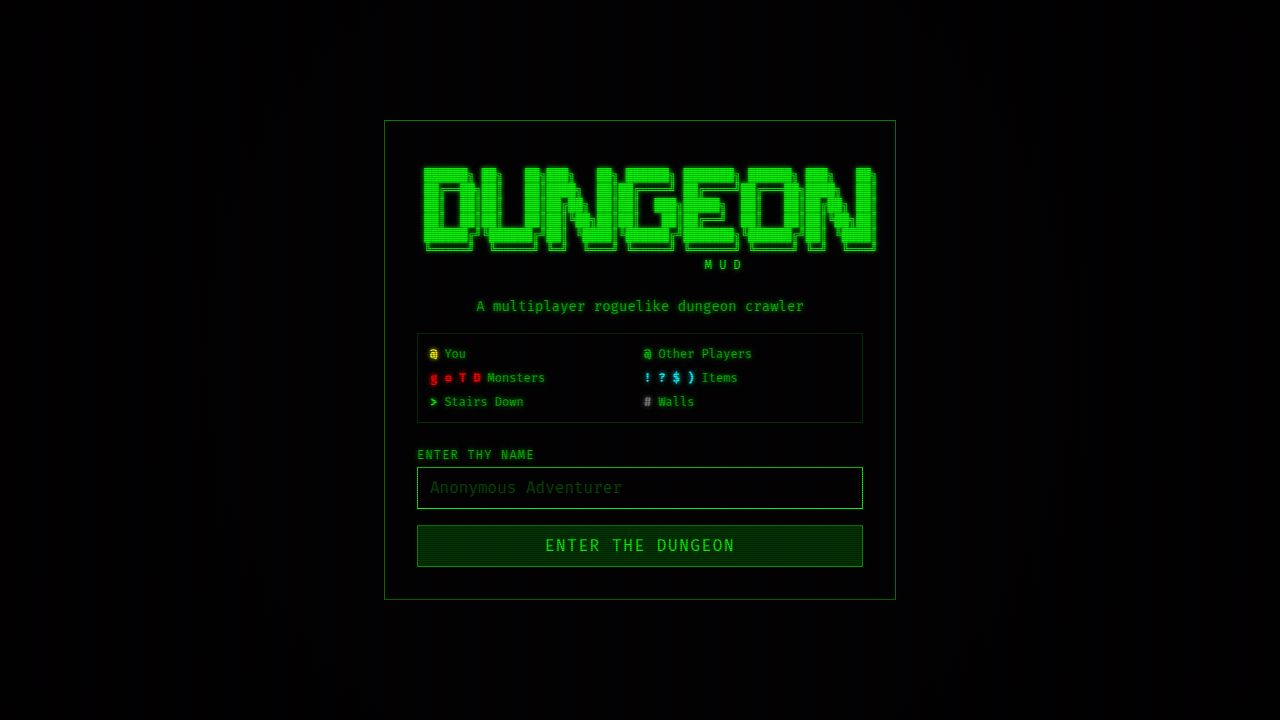
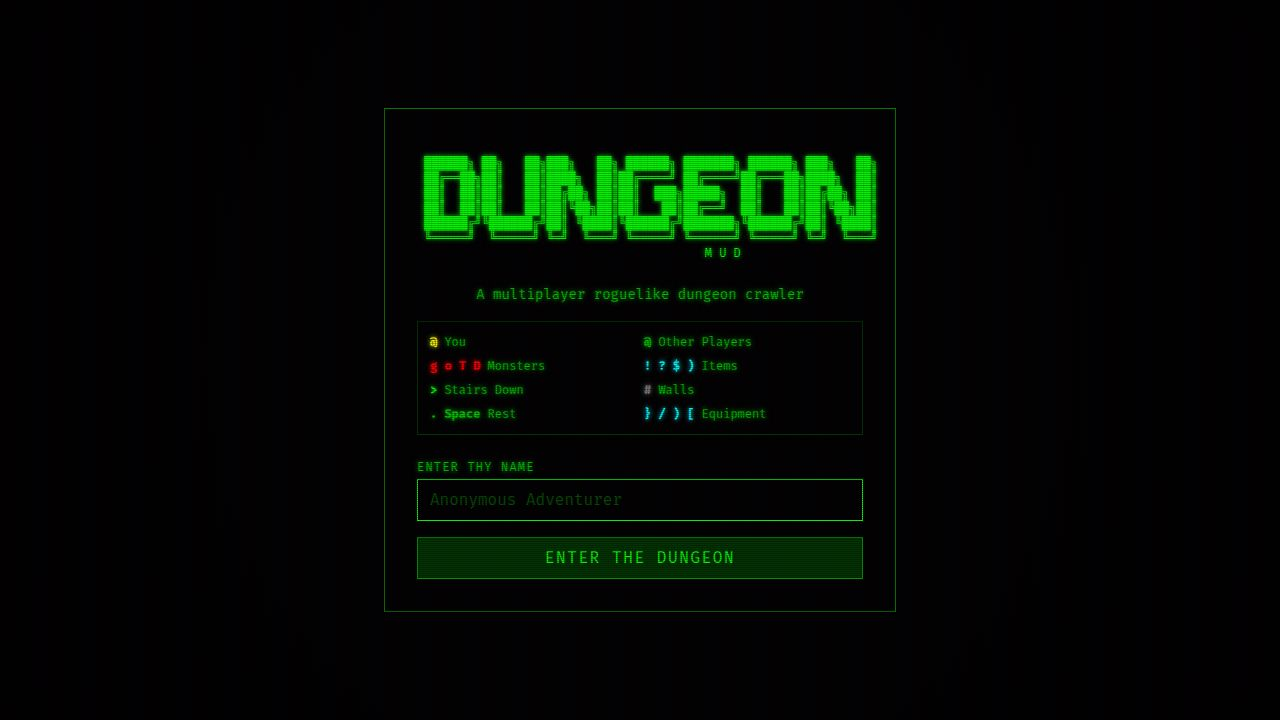
Improve the resting system to automatically heal players over time
Update the resting system to toggle resting state and automatically heal players over time, with monsters attracted to stillness. Also refactors server tick logic and client UI.

Replit-Commit-Author: Agent
Replit-Commit-Session-Id: 5c1d2c75-abe1-4dff-a876-900cda4b53bb
Replit-Commit-Checkpoint-Type: full_checkpoint
Replit-Commit-Event-Id: c38af133-fded-4cba-95eb-44c99d2b04cb
Replit-Commit-Screenshot-Url: https://storage.googleapis.com/screenshot-production-us-central1/542257bc-f0d9-4bd7-a091-a7d05c628b9d/5c1d2c75-abe1-4dff-a876-900cda4b53bb/Uf7Z3c9
Replit-Helium-Checkpoint-Created: true

Changed region(s): [[0.3125, 0.2139, 0.6875, 0.6111], [0.3125, 0.4583, 0.6875, 0.825]]

diff --git a/server/game.ts b/server/game.ts
@@ -53,6 +53,7 @@ export interface PlayerState {
   killStreak: number;
   buffs: ActiveBuff[];
   restTurns: number;
+  isResting: boolean;
 }
 
 export interface EnemyDef {
@@ -377,6 +378,7 @@ export class GameWorld {
       killStreak: 0,
       buffs: [],
       restTurns: 0,
+      isResting: false,
       stats: {
         kills: 0,
         damageDealt: 0,
@@ -417,6 +419,7 @@ export class GameWorld {
     player.killStreak = 0;
     player.buffs = [];
     player.restTurns = 0;
+    player.isResting = false;
     player.stats = {
       kills: 0,
       damageDealt: 0,
@@ -486,89 +489,97 @@ export class GameWorld {
     }
   }
 
-  restPlayer(id: string): boolean {
+  startResting(id: string): boolean {
     const player = this.players.get(id);
     if (!player || player.dead) return false;
+    if (player.isResting) return false;
+    player.isResting = true;
+    player.restTurns = 0;
+    this.addMessage(id, "You begin to rest...");
+    return true;
+  }
 
-    const level = this.getActiveLevel(id);
-    if (!level) return false;
+  tickResting(): Set<string> {
+    const affected = new Set<string>();
 
-    player.restTurns++;
+    for (const [id, player] of this.players) {
+      if (player.dead || !player.isResting) continue;
 
-    let healAmount = 0;
-    if (player.restTurns >= 3 && player.hp < player.maxHp) {
-      if (player.restTurns >= 8) {
-        healAmount = 3;
-      } else if (player.restTurns >= 5) {
-        healAmount = 2;
-      } else {
-        healAmount = 1;
+      const level = this.getActiveLevel(id);
+      if (!level) continue;
+
+      player.restTurns++;
+      affected.add(id);
+
+      let healAmount = 0;
+      if (player.restTurns >= 3 && player.hp < player.maxHp) {
+        if (player.restTurns >= 8) {
+          healAmount = 3;
+        } else if (player.restTurns >= 5) {
+          healAmount = 2;
+        } else {
+          healAmount = 1;
+        }
+        healAmount = Math.min(healAmount, player.maxHp - player.hp);
+        if (healAmount > 0) {
+          player.hp += healAmount;
+          this.addMessage(id, `You rest and recover ${healAmount} HP. [${player.hp}/${player.maxHp}]`);
+        }
       }
-      healAmount = Math.min(healAmount, player.maxHp - player.hp);
-      if (healAmount > 0) {
-        player.hp += healAmount;
-        this.addMessage(id, `You rest and recover ${healAmount} HP. [${player.hp}/${player.maxHp}]`);
+
+      if (player.restTurns === 2) {
+        this.addMessage(id, "You settle in... your wounds slowly mend.");
+      } else if (player.restTurns === 5) {
+        this.addMessage(id, "Your stillness draws attention from lurking creatures...");
       }
-    }
 
-    if (player.restTurns === 2) {
-      this.addMessage(id, "You settle in to rest... you feel your wounds slowly mending.");
-    } else if (player.restTurns === 5) {
-      this.addMessage(id, "Your stillness draws attention from lurking creatures...");
-    }
+      if (player.restTurns >= 3) {
+        const attractRange = Math.min(8 + player.restTurns, 20);
+        for (const entity of level.entities) {
+          if (entity.type !== 'enemy') continue;
+          if (entity.char !== entity.char.toLowerCase()) continue;
+          if (entity.hp! <= 0) continue;
 
-    if (player.restTurns >= 3) {
-      const attractRange = Math.min(8 + player.restTurns, 20);
-      for (const entity of level.entities) {
-        if (entity.type !== 'enemy') continue;
-        if (entity.char !== entity.char.toLowerCase()) continue;
-        if (entity.hp! <= 0) continue;
+          const dist = Math.abs(entity.pos.x - player.pos.x) + Math.abs(entity.pos.y - player.pos.y);
+          if (dist > attractRange || dist <= 1) continue;
 
-        const dist = Math.abs(entity.pos.x - player.pos.x) + Math.abs(entity.pos.y - player.pos.y);
-        if (dist > attractRange || dist <= 1) continue;
+          const dirs: [number, number][] = [[0, -1], [0, 1], [-1, 0], [1, 0]];
+          const sorted = [...dirs].sort((a, b) => {
+            const distA = Math.abs(entity.pos.x + a[0] - player.pos.x) + Math.abs(entity.pos.y + a[1] - player.pos.y);
+            const distB = Math.abs(entity.pos.x + b[0] - player.pos.x) + Math.abs(entity.pos.y + b[1] - player.pos.y);
+            return distA - distB;
+          });
 
-        const dirs: [number, number][] = [[0, -1], [0, 1], [-1, 0], [1, 0]];
-        const sorted = [...dirs].sort((a, b) => {
-          const distA = Math.abs(entity.pos.x + a[0] - player.pos.x) + Math.abs(entity.pos.y + a[1] - player.pos.y);
-          const distB = Math.abs(entity.pos.x + b[0] - player.pos.x) + Math.abs(entity.pos.y + b[1] - player.pos.y);
-          return distA - distB;
-        });
-
-        for (const [dx, dy] of sorted) {
-          const nx = entity.pos.x + dx;
-          const ny = entity.pos.y + dy;
-          if (nx < 0 || nx >= MAP_WIDTH || ny < 0 || ny >= MAP_HEIGHT) continue;
-          if (!level.map[ny][nx].walkable) continue;
-          const blocked = level.entities.some(e => e !== entity && e.pos.x === nx && e.pos.y === ny);
-          if (blocked) continue;
-          const playerBlocked = Array.from(this.players.values()).some(
-            p => !p.dead && p.pos.x === nx && p.pos.y === ny
-          );
-          if (playerBlocked) continue;
-          entity.pos = { x: nx, y: ny };
-          break;
+          for (const [dx, dy] of sorted) {
+            const nx = entity.pos.x + dx;
+            const ny = entity.pos.y + dy;
+            if (nx < 0 || nx >= MAP_WIDTH || ny < 0 || ny >= MAP_HEIGHT) continue;
+            if (!level.map[ny][nx].walkable) continue;
+            const blocked = level.entities.some(e => e !== entity && e.pos.x === nx && e.pos.y === ny);
+            if (blocked) continue;
+            const playerBlocked = Array.from(this.players.values()).some(
+              p => !p.dead && p.pos.x === nx && p.pos.y === ny
+            );
+            if (playerBlocked) continue;
+            entity.pos = { x: nx, y: ny };
+            break;
+          }
         }
       }
     }
 
-    for (const buff of player.buffs) {
-      buff.turnsLeft--;
-    }
-    const expired = player.buffs.filter(b => b.turnsLeft <= 0);
-    player.buffs = player.buffs.filter(b => b.turnsLeft > 0);
-    for (const b of expired) {
-      this.addMessage(id, `Your ${b.source}'s enchantment fades.`);
-    }
-
-    this.updatePlayerFOV(id);
-    return true;
+    return affected;
   }
 
   movePlayer(id: string, dx: number, dy: number): boolean {
     const player = this.players.get(id);
     if (!player || player.dead) return false;
 
-    player.restTurns = 0;
+    if (player.isResting) {
+      player.isResting = false;
+      player.restTurns = 0;
+      this.addMessage(id, "You stop resting.");
+    }
 
     const level = this.getActiveLevel(id);
     if (!level) return false;
@@ -1164,7 +1175,8 @@ export class GameWorld {
         maxHp: player.maxHp,
         name: player.name,
         buffs: player.buffs,
-        restTurns: player.restTurns
+        restTurns: player.restTurns,
+        isResting: player.isResting
       },
       entities: visibleEntities,
       otherPlayers,

diff --git a/server/routes.ts b/server/routes.ts
@@ -57,6 +57,11 @@ export async function registerRoutes(
     for (const pid of riftAffected) {
       sendState(pid);
     }
+
+    const restAffected = world.tickResting();
+    for (const pid of restAffected) {
+      sendState(pid);
+    }
   }, 800);
 
   wss.on('connection', (ws) => {
@@ -91,14 +96,9 @@ export async function registerRoutes(
           }
 
           case 'rest': {
-            const rested = world.restPlayer(playerId);
-            if (rested) {
+            const started = world.startResting(playerId);
+            if (started) {
               sendState(playerId);
-              if (world.isInRift(playerId) && world.rift) {
-                for (const pid of world.rift.participants) {
-                  if (pid !== playerId) sendState(pid);
-                }
-              }
             }
             break;
           }

diff --git a/client/src/lib/gameLogic.ts b/client/src/lib/gameLogic.ts
@@ -53,7 +53,7 @@ export interface ActiveBuff {
 
 export interface GameStateSnapshot {
   map: TileState[][];
-  player: PlayerInfo & { buffs?: ActiveBuff[]; restTurns?: number };
+  player: PlayerInfo & { buffs?: ActiveBuff[]; restTurns?: number; isResting?: boolean };
   entities: EntityInfo[];
   otherPlayers: OtherPlayerInfo[];
   messages: string[];

diff --git a/client/src/pages/home.tsx b/client/src/pages/home.tsx
@@ -391,7 +391,7 @@ function GameView({
                 ))}
               </span>
             )}
-            {(state.player.restTurns ?? 0) >= 2 && (
+            {state.player.isResting && (
               <span className="text-xs text-primary/60 animate-pulse" data-testid="text-resting">Resting...</span>
             )}
           </div>
